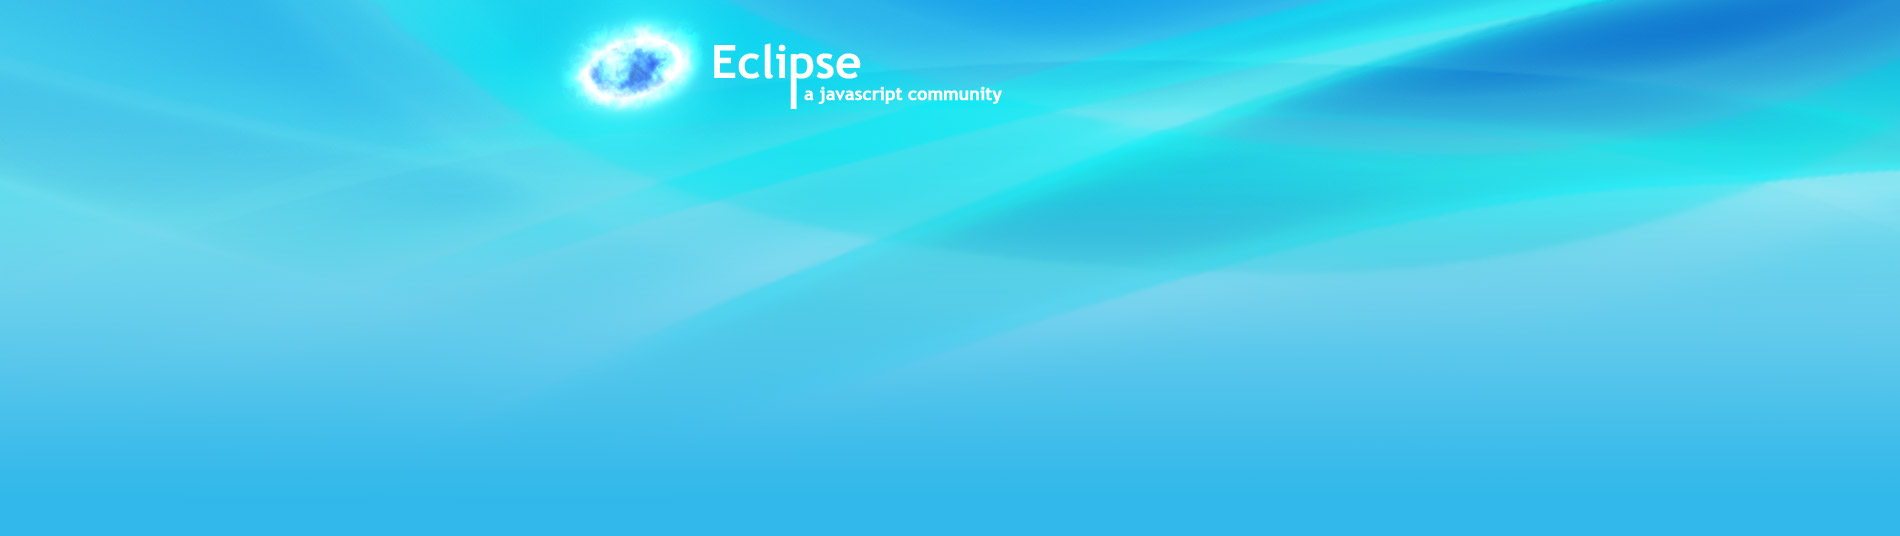
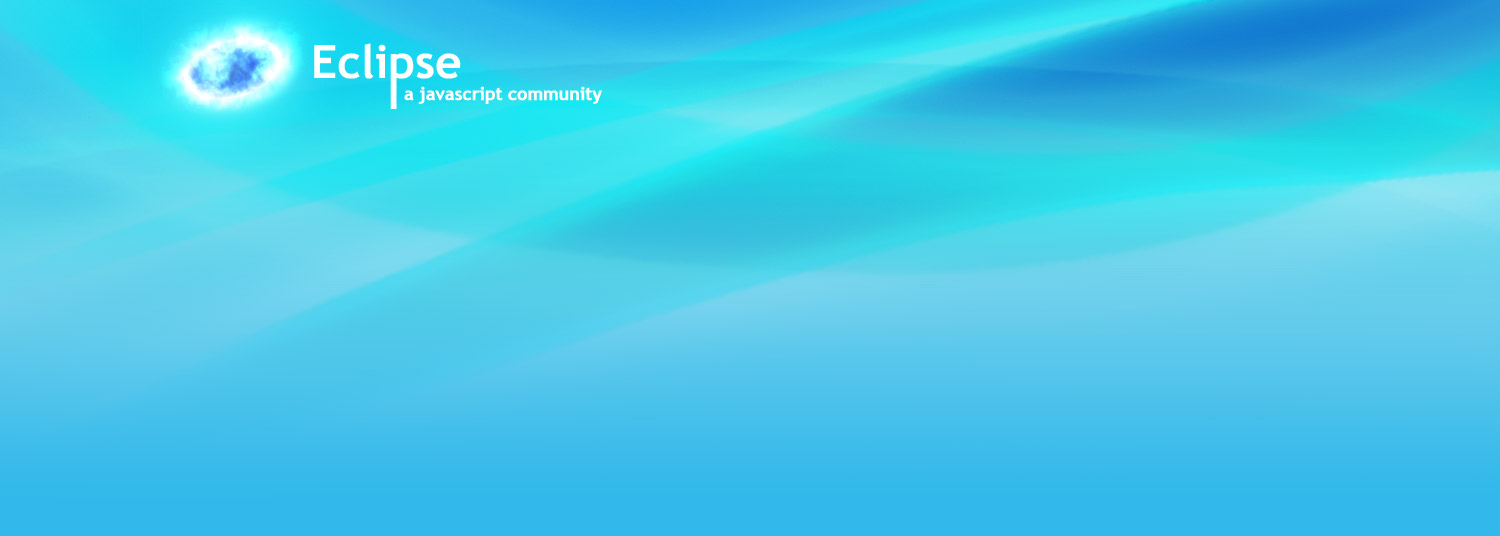
CHanges Done- @ Work

diff --git a/assignment 2/style.css b/assignment 2/style.css
@@ -1,4 +1,4 @@
-/* css reset */
+/* css reset*/
 html,body,div,span,object,iframe,h1,h2,h3,h4,h5,h6,p,blockquote,pre,abbr,address,cite,code,del,dfn,em,img,ins,kbd,q,samp,small,strong,sub,sup,var,b,i,dl,dt,dd,ol,ul,li,fieldset,form,label,legend,table,caption,tbody,tfoot,thead,tr,th,td,article,aside,canvas,details,figcaption,figure,footer,header,hgroup,menu,nav,section,summary,time,mark,audio,video{border:0;outline:0;font-size:100%;vertical-align:baseline;background:transparent;margin:0;padding:0;}article,aside,details,figcaption,figure,footer,header,hgroup,menu,nav,section{display:block;}nav ul{list-style:none;}blockquote,q{quotes:none;}blockquote:before,blockquote:after,q:before,q:after{content:none;}a{font-size:100%;vertical-align:baseline;background:transparent;margin:0;padding:0;}ins{background-color:#ff9;color:#000;text-decoration:none;}mark{background-color:#ff9;color:#000;font-style:italic;font-weight:700;}del{text-decoration:line-through;}abbr[title],dfn[title]{border-bottom:1px dotted;cursor:help;}table{border-collapse:collapse;border-spacing:0;}hr{display:block;height:1px;border:0;border-top:1px solid #ccc;margin:1em 0;padding:0;}input,select{vertical-align:middle;}select,input,textarea,button{font:99% sans-serif;}pre,code,kbd,samp{font-family:monospace, sans-serif;}html{overflow-y:scroll;}a:hover,a:active{outline:none;}ul,ol{margin-left:1.8em;}ol{list-style-type:decimal;}small{font-size:85%;}td,td img{vertical-align:top;}sub{vertical-align:sub;font-size:smaller;}sup{vertical-align:super;font-size:smaller;}pre{white-space:pre-line;word-wrap:break-word;padding:15px;}textarea{overflow:auto;}.ie6 legend,.ie7 legend{margin-left:-7px;}input[type=checkbox]{vertical-align:bottom;}.ie7 input[type=checkbox]{vertical-align:baseline;}label,input[type=button],input[type=submit],button{cursor:pointer;}input:invalid,textarea:invalid{border-radius:1px;-moz-box-shadow:0 0 5px red;-webkit-box-shadow:0 0 5px red;box-shadow:0 0 5px red;}.no-boxshadow input:invalid,.no-boxshadow textarea:invalid{background-color:#f0dddd;}a:link{-webkit-tap-highlight-color:grey;}button{width:auto;overflow:visible;}.ie7 img{-ms-interpolation-mode:bicubic;}h1,h2,h3,h4,h5,h6,strong,th{font-weight:700;}nav ul,nav li,button,input,select,textarea{margin:0;}input[type=radio],.ie6 input{vertical-align:text-bottom;}::-moz-selection,::selection{background:grey;color:#fff;text-shadow:none;}
 /* end of reset */
 
@@ -36,7 +36,9 @@ HELPER CLASSES
 PRIMARY STYLES
 */
 
-body{ background-image: url('/images/sitebg.png'); no-repeat top top #31b8ea; }
+body{ background-image: url("images/sitebg.jpg");
+    background-repeat: no-repeat;
+}
 
 body, select, input, textarea { 
   color: #444; 
@@ -59,6 +61,7 @@ body, select, input, textarea {
 
 #container{ width:780px; margin:0 auto; }
 
+
 #header, #nav, #contentwrap{position: relative;}
 
 #header .logo{float:left;}
@@ -68,7 +71,7 @@ body, select, input, textarea {
 #contentwrap{ margin:0 auto; background:white; padding:20px; min-height:400px; }
 
 a{
-	color: #D76317;
+	color: #1111;
     text-decoration: none;
 }
 
@@ -78,21 +81,26 @@ MAIN DROPDOWN NAVIGATION
 */
 
 #nav{
-	list-style: none;
-	margin:5px 0 15px 10px; 
+	list-style:none;
+	margin:5px 0 15px 10px;
 	padding:0; 
 	display:block;
+
 }
 #nav li{
-	float:none; 
-	position:relative; 
+    float: left;
+	position:relative;
 	display:block;
+
+
 }
 #nav li a{
+   /* border: 2px solid #333;*/
+    vertical-align: left;
 	display:block;
 	font-size:15px;
 	background:none; 
-	padding:6px 12px; 
+	padding:6px 12px;
 	color:white; 
 	text-decoration:none; 
 	border-bottom:1px solid transparent;
@@ -106,7 +114,7 @@ MAIN DROPDOWN NAVIGATION
 	display:none;
 	position:absolute; 
 	list-style:none; 
-	z-index:10; 
+	/*z-index:10; */
 	background:#444; 
 	color:white; 
 	margin:0; padding:4px 0;
@@ -167,6 +175,7 @@ h1{font-size:22px; border-bottom:1px dotted #444; padding:0 0 2px 0; margin-bott
 ============================
 SEARCH FIELD
 */
+
 
 #sitesearch{position:absolute; top:73px; right:100px; width:255px; height:39px; background:url(images/searchbg.png) no-repeat center center;}
 #searchtext{font-size:13px; height:39px; padding:0; margin-left:15px; background:none; border:#000000; color:#555; width:190px; outline:none;}

diff --git a/assignment 2/index.html b/assignment 2/index.html
@@ -8,7 +8,7 @@
 	<link rel="stylesheet" href="style.css">
 </head>
 <body>
-	<div id="container">
+<div id="container">
 			<div class="logo"><a href="/"><span class="ir">Eclipse JavaScript Community</span></a></div>
 			<div ID="sitesearch">
 				<form method="get">
@@ -16,14 +16,26 @@
 					<input type="submit" id="searchsubmit" value="" />
 				</form>
 			</div>
-		<ul id="nav" class="cf">
-			<li><a href="/">home</a></li>
-			<li><a href="/">tutorials</a></li>
-			<li><a href="/">screencasts</a>
-			<li><a href="/">projects</a></li>
-			<li><a href="store.html">store</a></li>
-		</ul>
-		<div id="contentwrap" class="round lshadow">
+        <ul id="nav" class="cf">
+            <li><a href="/">home</a></li>
+            <li><a href="/">tutorials</a>
+                <ul>
+                    <li><a href="#">JavaScript</a></li>
+                    <li><a href="#">jQuery</a></li>
+                    <li><a href="#">AJAX</a></li>
+                </ul>
+            </li>
+            <li><a href="/">screencasts</a>
+                <ul>
+                    <li><a href="#">JavaScript</a></li>
+                    <li><a href="#">jQuery</a></li>
+                    <li><a href="#">AJAX</a></li>
+                </ul>
+            </li>
+            <li><a href="/">projects</a></li>
+            <li><a href="store.html">store</a></li>
+        </ul>
+        <div id="contentwrap" class="round lshadow">
 			<h1>About Eclipse</h1>
 		<div class="tabs">
 			<ul class="tabsnav cf">
